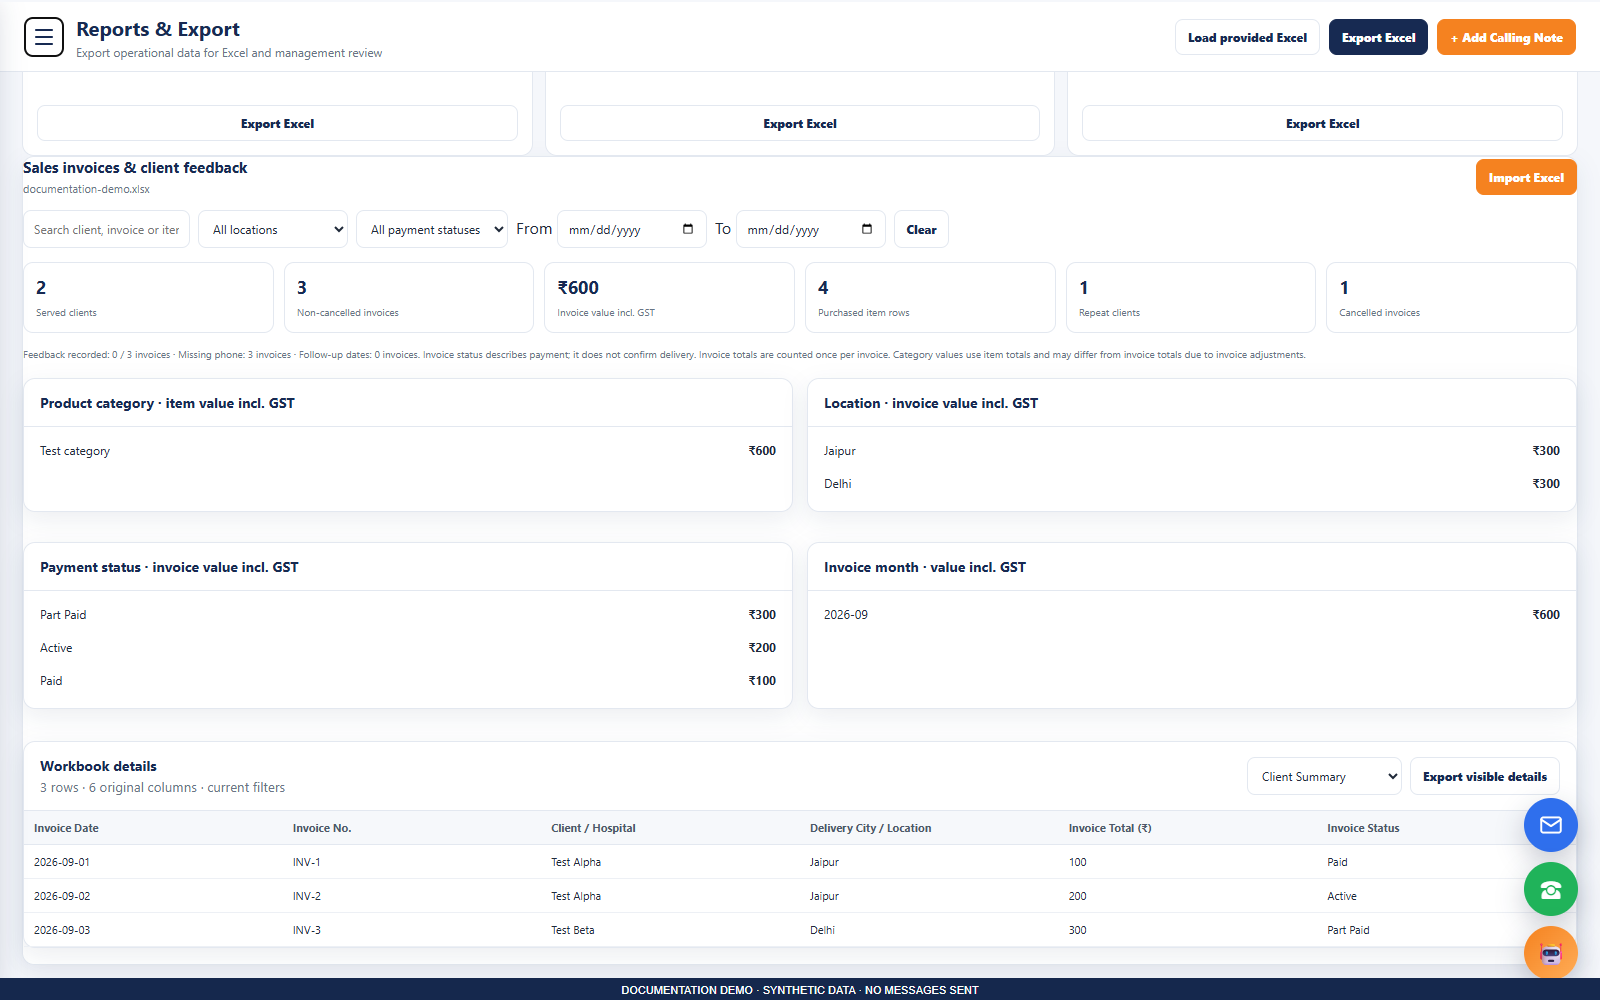
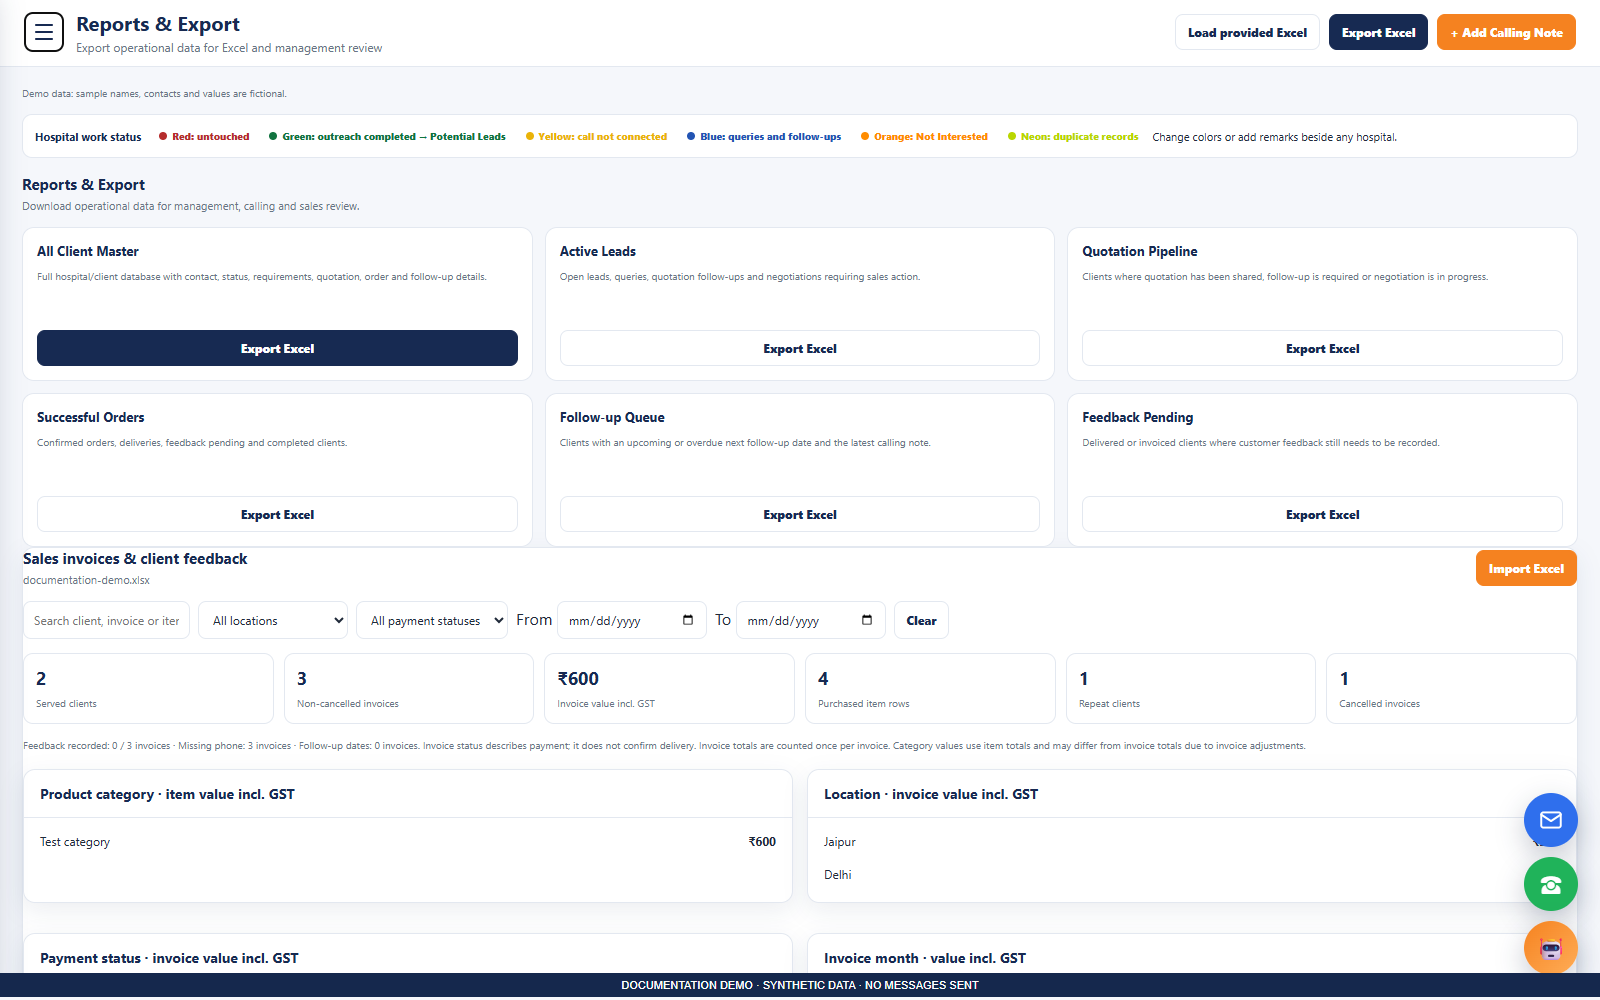
Improve backup and reset screenshot framing for project documentation

diff --git a/docs/capture_project_screenshots.py b/docs/capture_project_screenshots.py
@@ -71,8 +71,9 @@ def capture():
                 views=[('dashboard','02-dashboard.png'),('clients','03-clients.png'),('rghs','04-rghs.png'),('served','05-served.png'),('doctors','06-doctors.png'),('potential','07-potential.png'),('leads','08-leads.png'),('quotes','09-quotations.png'),('orders','10-orders.png'),('calling','11-calling.png'),('feedback','12-feedback.png'),('whatsapp','13-whatsapp.png'),('email','14-email.png'),('reports','15-reports.png'),('data','18-backups.png')]
                 for view,name in views:
                     page.evaluate('(view)=>navigate(view)',view)
+                    page.evaluate("window.scrollTo({top:0,behavior:'instant'})")
                     if view=='data':
-                        page.evaluate("document.querySelector('button[onclick=\"prepareFullBackup()\"]').closest('.card').scrollIntoView();window.scrollBy(0,-85)")
+                        page.evaluate("const card=document.querySelector('button[onclick=\"prepareFullBackup()\"]').closest('.card');window.scrollTo({top:card.getBoundingClientRect().top+window.scrollY-85,behavior:'instant'})")
                     shot(name,'Workspace: '+view)
                 page.evaluate("navigate('reports');document.getElementById('invoiceDashboard').scrollIntoView()")
                 shot('16-invoice-analysis.png','Invoice metrics: 3 valid invoices, 2 clients, INR 600; synthetic workbook')
